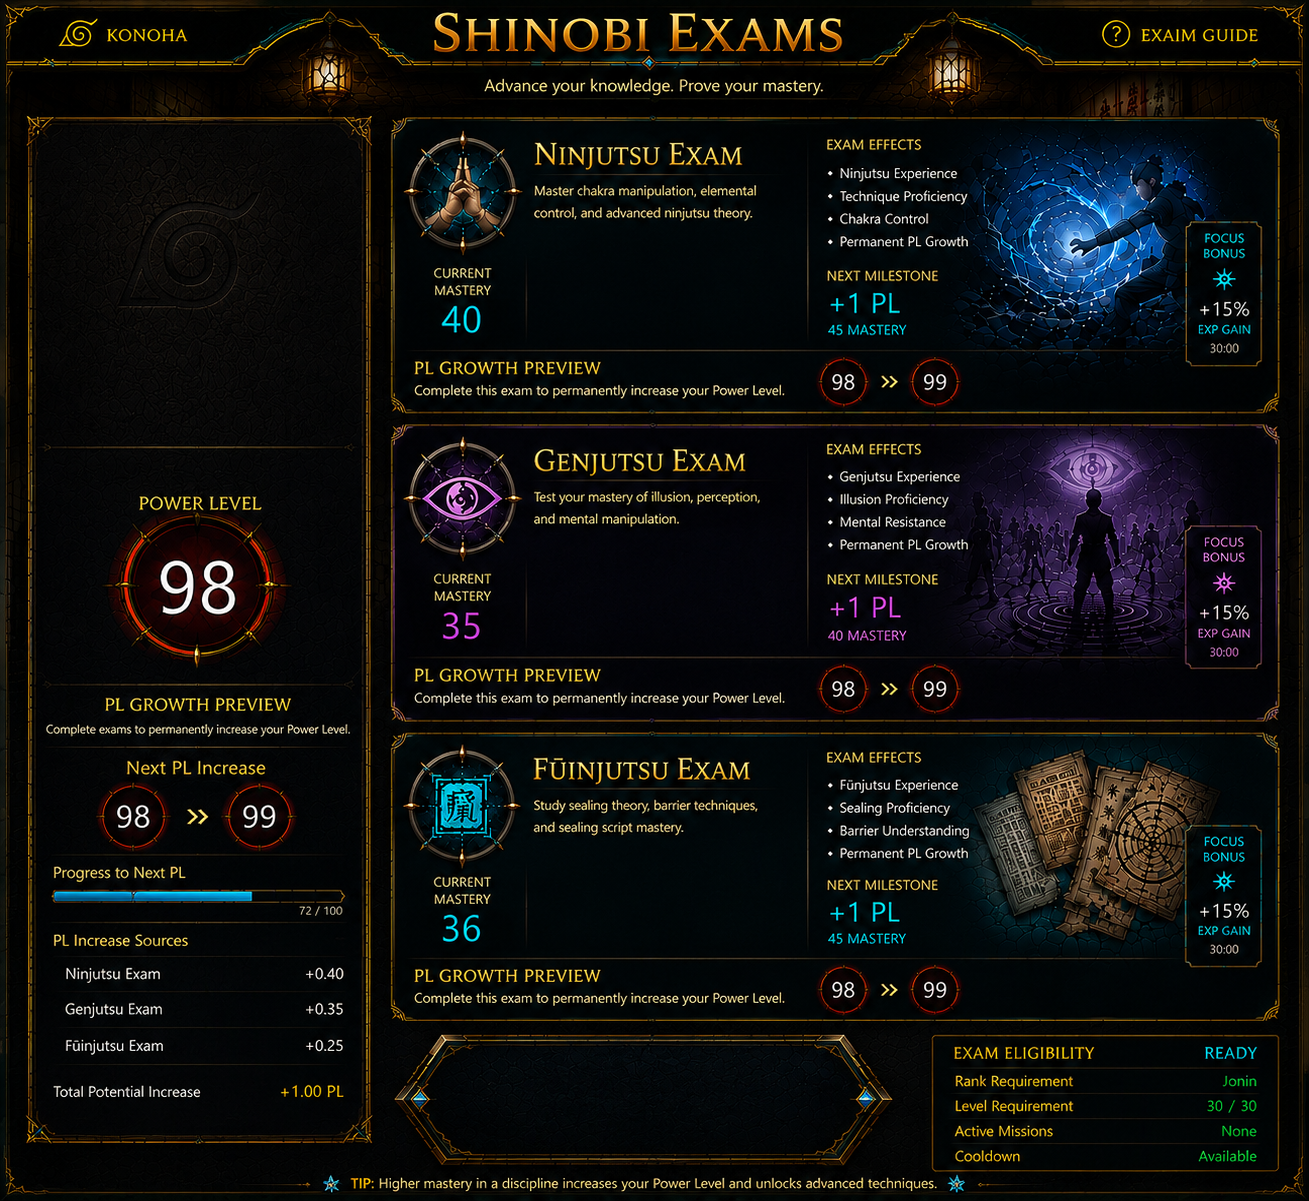
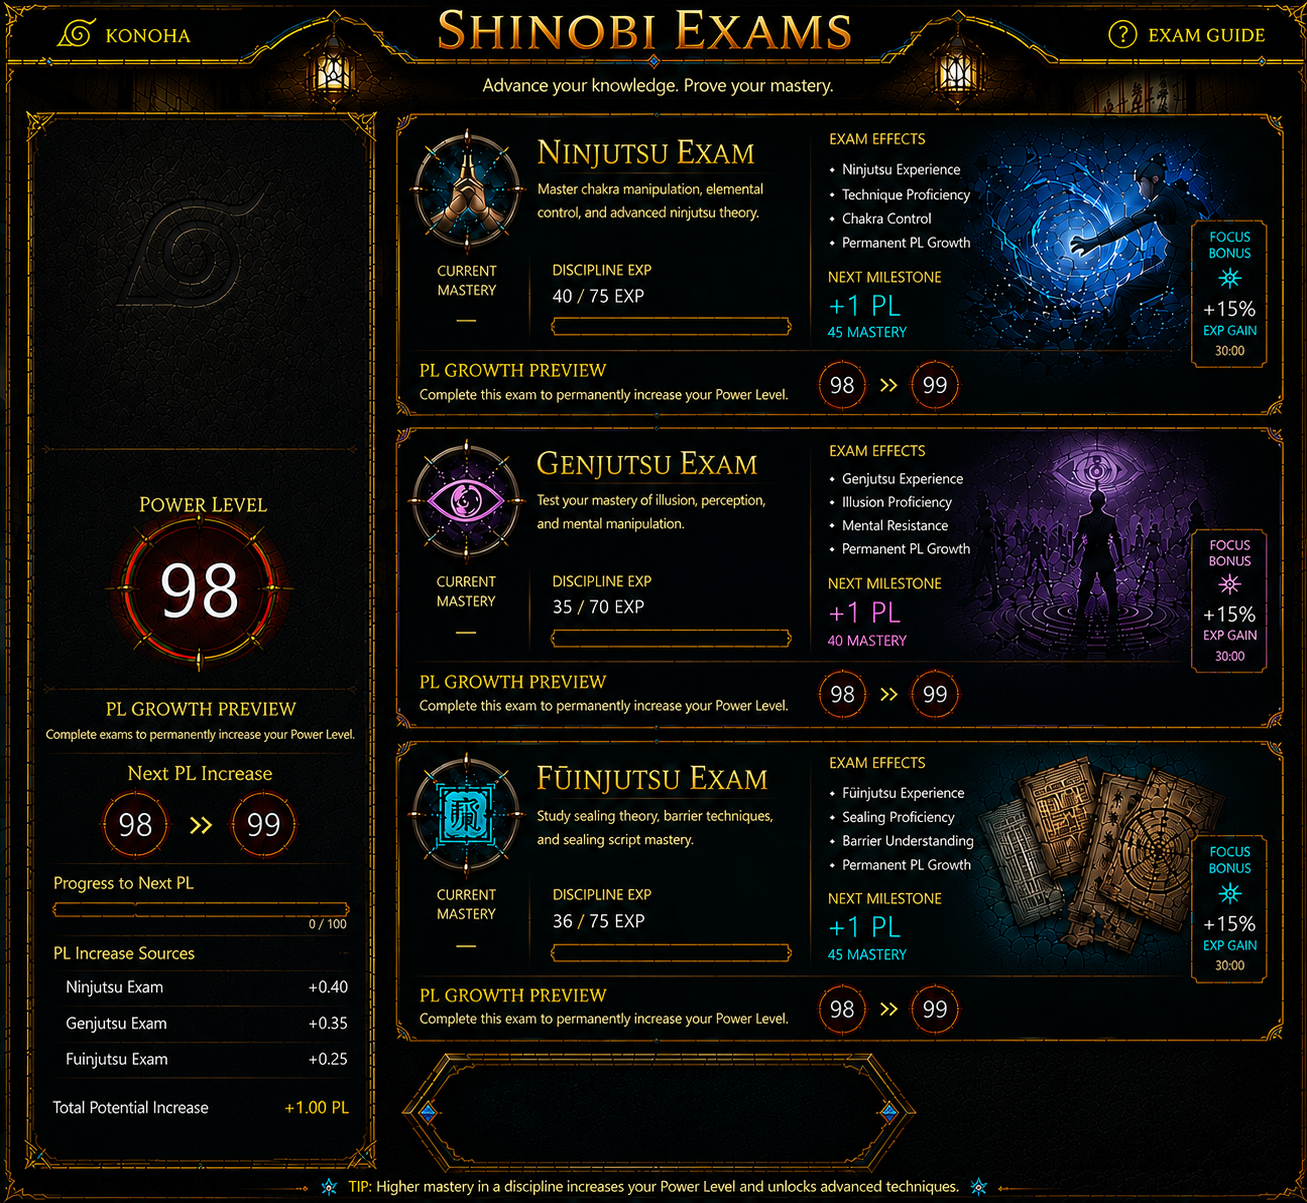
enhanced exams, fixed mastery number

Changed region(s): [[0.0, 0.0, 1.0, 1.0]]

diff --git a/style.css b/style.css
@@ -6742,10 +6742,10 @@ body {
 .exam-mastery-value {
 
     left:
-        21.4% !important;
+        2% !important;
 
     top:
-        42% !important;
+        80% !important;
 
 }
 
